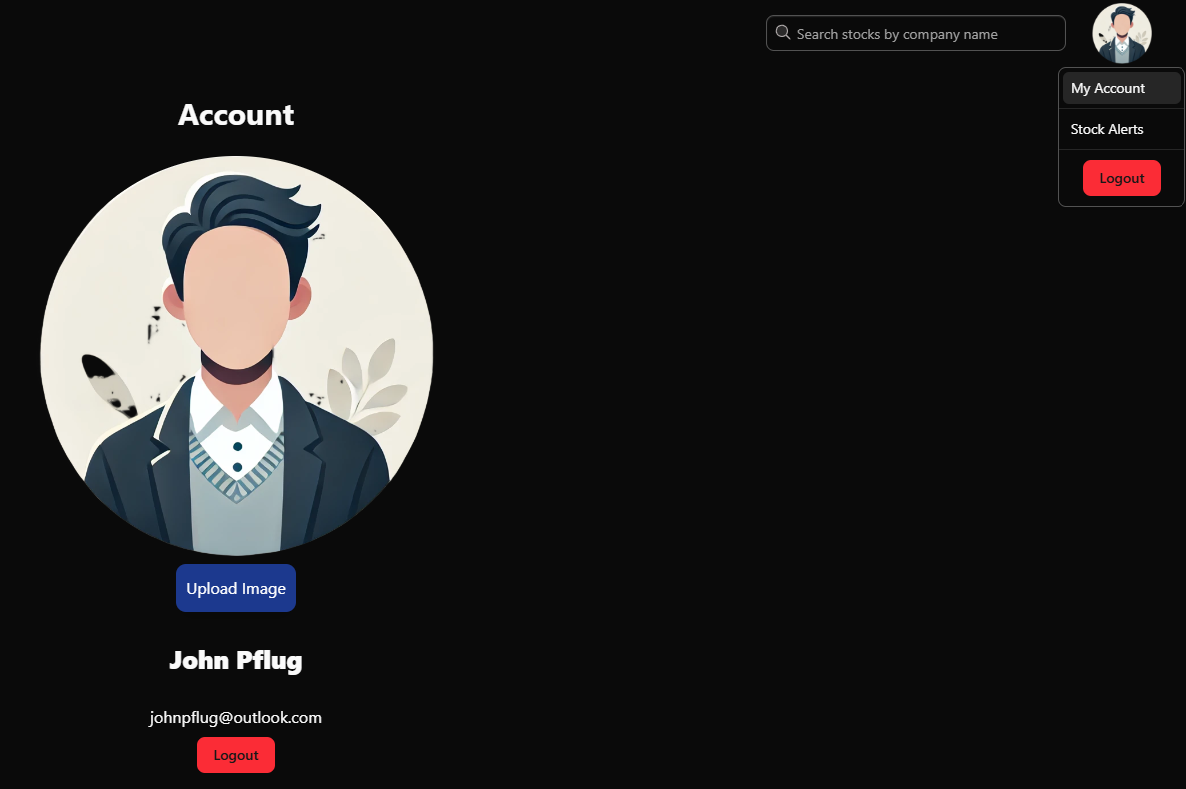
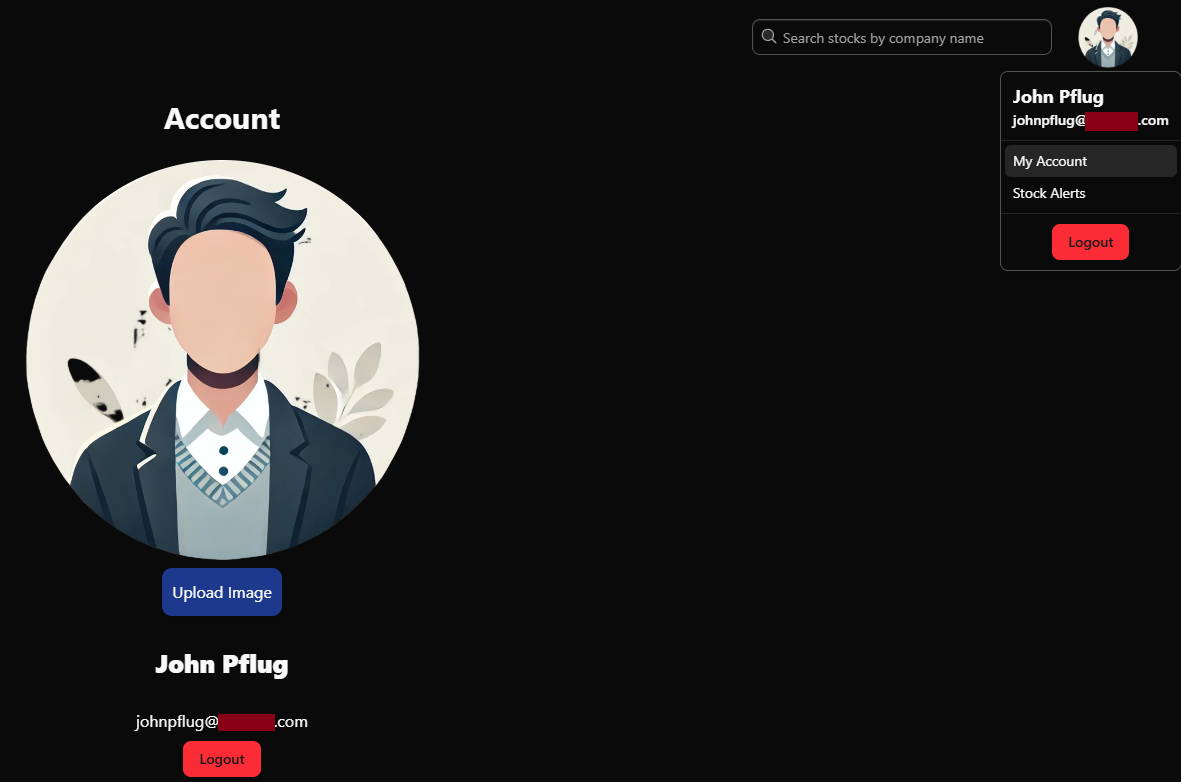
Add envs to README and updates the screenshots.

diff --git a/README.md b/README.md
@@ -40,6 +40,7 @@ Designed for modern investors, Hedgehog Finances empowers users to stay informed
 
 -   [Twelve Data](https://twelvedata.com/) REST API for access to financial data.
 -   [Financial Modeling Prep](https://site.financialmodelingprep.com/developer/docs/stable#dividends-company) Dividends Company API.
+-   [Finnhub Stock API](https://finnhub.io/) for additional financial data.
 -   [Firebase](https://firebase.google.com/docs/reference) API for managing Cloud Messaging into the Mobile Platform.
 -   [novu](https://docs.novu.co/api-reference/overview) API for real-time Inbox and notifications.
 -   [web-push](https://www.npmjs.com/package/web-push) for push notifications.
@@ -72,15 +73,45 @@ cd hedgehog-finances
 npm i
 ```
 
-4. Run the project:
+4. Create a .env file in the root of your project directory and add the environmental variables (see [Environmental Variables](#environmental-variables))
+
+5. Start the development server:
 
 ```
 npm run dev
 ```
 
-5. Open [http://localhost:3000](http://localhost:3000) in your browser to see the result.
+6. Open [http://localhost:3000](http://localhost:3000) in your browser to see the result.
 
 You can start editing the page by modifying `src/app/page.tsx`. The page auto-updates as you edit the file.
+
+
+### Environmental Variables
+| Variable Name     | Value |
+| ----------------- | ----- |
+| FINANCIAL_MODELING_API_KEY | Your API key for accessing Financial Modeling data |
+| FINANCIAL_MODELING_DATA_USAGE | Tracks your data usage for the Financial Modeling API |
+| NOVU_SECRET_KEY | Secret key for Novu notifications | 
+| NEXT_PUBLIC_NOVU_APP_ID |Public ID for the Novu application |
+| VAPID_PRIVATE_KEY | Private key for Web Push notifications (VAPID) |
+| NEXT_PUBLIC_PROJECTID | Project ID for web notifications | 
+| NEXT_PUBLIC_VAPID_PUBLIC | Public key for Web Push notifications (VAPID) |
+| NEXT_PUBLIC_NOTIFY_APPID | App ID for Firebase or other notification services |
+| NEXT_PUBLIC_MESSAGE_SENDER | Message sender ID for Firebase Cloud Messaging |
+| NEXT_PUBLIC_FIREBASEAPIKEY | Firebase API key for accessing Firebase services |
+| DATABASE_URL | Database connection string for MongoDB |
+| GOOGLE_CLIENT_ID | Google OAuth client ID for user authentication |
+| GOOGLE_CLIENT_SECRET | Google OAuth client secret for user authentication |
+| NEXTAUTH_URL | http://localhost:3000/ |
+| NEXTAUTH_SECRET | Secret for NextAuth.js used to encrypt tokens |
+| EDGE_STORE_ACCESS_KEY | Access key for your edge storage service |
+| EDGE_STORE_SECRET_KEY | Secret key for your edge storage service |
+| TWELVEDATA_KEY_ONE | API key for Twelve Data services (key 1) |
+| TWELVEDATA_KEY_TWO | API key for Twelve Data services (key 2) |
+| TWELVEDATA_KEY_THREE | API key for Twelve Data services (key 3) |
+| WEB_PUSH_PRIVATE_KEY | Private key for Web Push notifications |
+| NEXT_PUBLIC_WEB_PUSH_PUBLIC_KEY | Public key for Web Push notifications |
+| FINNHUB_KEY | API key for Finnhub stock market data |
 
 ## Minimum Version Requirements
 
@@ -127,7 +158,7 @@ Once users have created an account and are signed in, they can take advantage of
 -   **Dividends & News**: On the same page, users can see dividend information for the company, including the next payment date and the amount per share. Below this, a dynamic news feed is displayed, featuring a curated list of articles related to the company and its performance. Each news card is clickable, redirecting the user to the original article for further insights.
     ![Article Page](src/assets/screenshots/dividend_and_news.png)
 
--   **Dashboard**: Clicking 'Add to Watchlist' beside a company's stock symbol seamlessly adds that company to the user's personalized Dashboard, accessible via the 'Dashboard' link in the top left corner of the page. The Dashboard provides an overview of all watchlisted companies, displaying their stock performance graphs simultaneously for easy comparison and monitoring.
+-   **Dashboard**: Clicking 'Add to Watchlist' beside a company's stock symbol seamlessly adds that company to the user's personalized Dashboard, accessible via the 'Dashboard' link in the top left corner of the page. The Dashboard provides an overview of all watchlisted companies, displaying their stock performance graphs simultaneously for easy comparison and monitoring. To remove a company from the watchlist, simply click the company tile, then click 'Remove from Watchlist'.
     ![Article Page](src/assets/screenshots/dashboard.png)
 
 -   **Set Alerts**: If a company is added to a user's watchlist, they can click the 'Set Alerts' button located beside the company's stock symbol. This allows the user to customize their notification preferences for that stock. Notifications can be received via In-App Alerts, Email Notifications, and/or Push Notifications. Users can select one or more of these options based on their preferences.
@@ -163,5 +194,4 @@ You can check out [the Next.js GitHub repository](https://github.com/vercel/next
 This portfolio project was created as part of a Digital Skills Boot-camp in Software Engineering provided by [Northcoders](https://northcoders.com/)
 
 ---
-
 We hope you find this README helpful!
